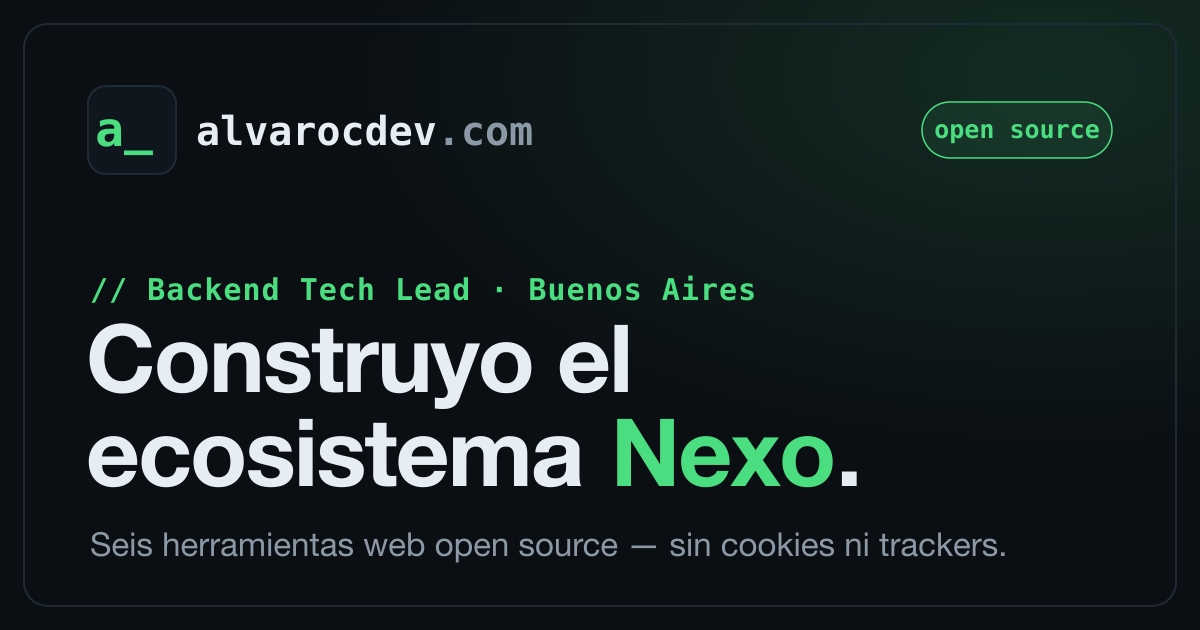
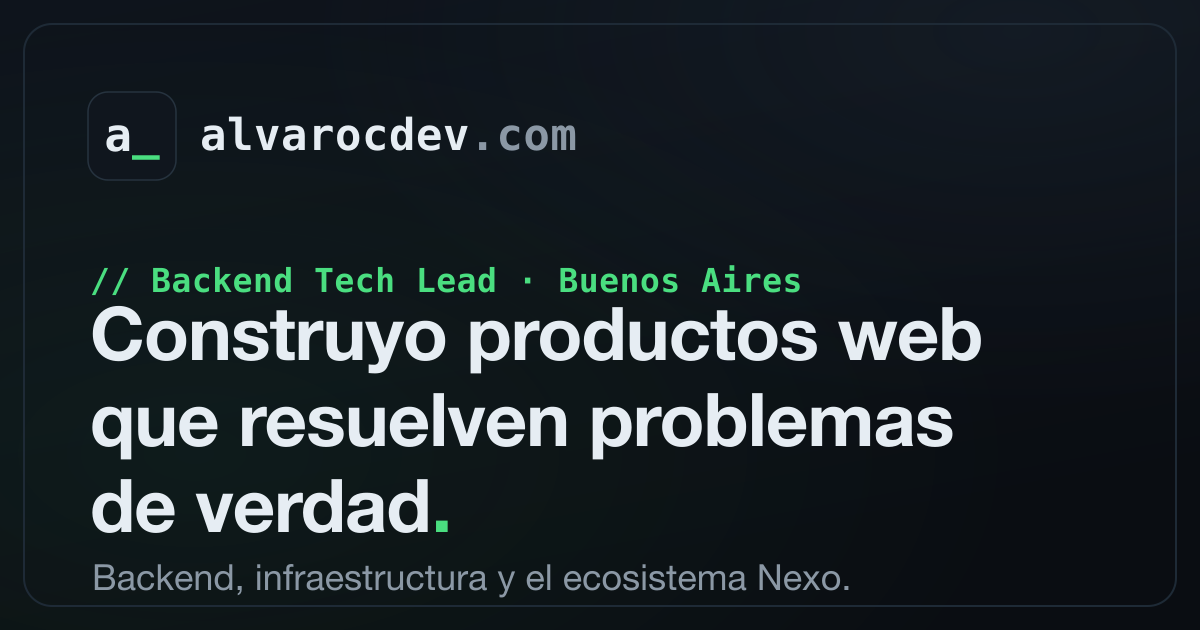
alvarocdev: OG card y meta centrados en la persona, no en Nexo
La preview social y el <head> hablaban primero del ecosistema Nexo
("Construyo el ecosistema Nexo", pill "open source", lista de seis
herramientas). Para un portafolio personal, primero va Alvaro.

- public/og-image.png (regenerada 1200x630, mismo estilo dark + verde):
  quita la pill "open source"; headline nuevo "Construyo productos web
  que resuelven problemas de verdad." (sin resaltar Nexo, solo el punto
  final en verde de marca); subtitulo "Backend, infraestructura y el
  ecosistema Nexo." (Nexo como una palabra mas). Mantiene el chip a_ +
  alvarocdev.com y el kicker "// Backend Tech Lead · Buenos Aires".
- metaDescription (ES/EN/PT): reemplaza la lista de tools por "Backend
  Tech Lead en Buenos Aires. Construyo sistemas y productos web — del
  backend a la infraestructura." El metaTitle ya era correcto (sin Nexo).
- og:image:alt / twitter:image:alt: describen la card nueva (sin "open
  source"). Canonical, hreflang y demas assets intactos.

diff --git a/src/i18n/translations.ts b/src/i18n/translations.ts
@@ -90,7 +90,7 @@ export const translations: Record<Locale, Translation> = {
     lang: 'es',
     metaTitle: 'Alvaro Carrizales — Backend Tech Lead | alvarocdev',
     metaDescription:
-      'Backend Tech Lead en Buenos Aires. Construyo el ecosistema Nexo: seis herramientas web open source, sin cookies ni trackers (Nexo ID, Links, Agenda, Short, Events y Tools).',
+      'Backend Tech Lead en Buenos Aires. Construyo sistemas y productos web — del backend a la infraestructura.',
     nav: { about: 'Sobre mí', products: 'Ecosistema', work: 'Clientes', contact: 'Contacto' },
     hero: {
       kicker: 'Backend Tech Lead · Buenos Aires',
@@ -204,7 +204,7 @@ export const translations: Record<Locale, Translation> = {
     lang: 'en',
     metaTitle: 'Alvaro Carrizales — Backend Tech Lead | alvarocdev',
     metaDescription:
-      'Backend Tech Lead based in Buenos Aires. I build the Nexo ecosystem: six open-source web tools with no cookies or trackers (Nexo ID, Links, Agenda, Short, Events and Tools).',
+      'Backend Tech Lead based in Buenos Aires. I build web systems and products — from the backend to the infrastructure.',
     nav: { about: 'About', products: 'Ecosystem', work: 'Clients', contact: 'Contact' },
     hero: {
       kicker: 'Backend Tech Lead · Buenos Aires',
@@ -318,7 +318,7 @@ export const translations: Record<Locale, Translation> = {
     lang: 'pt',
     metaTitle: 'Alvaro Carrizales — Backend Tech Lead | alvarocdev',
     metaDescription:
-      'Backend Tech Lead em Buenos Aires. Construo o ecossistema Nexo: seis ferramentas web open source, sem cookies nem trackers (Nexo ID, Links, Agenda, Short, Events e Tools).',
+      'Backend Tech Lead em Buenos Aires. Construo sistemas e produtos web — do backend à infraestrutura.',
     nav: { about: 'Sobre mim', products: 'Ecossistema', work: 'Clientes', contact: 'Contato' },
     hero: {
       kicker: 'Backend Tech Lead · Buenos Aires',
